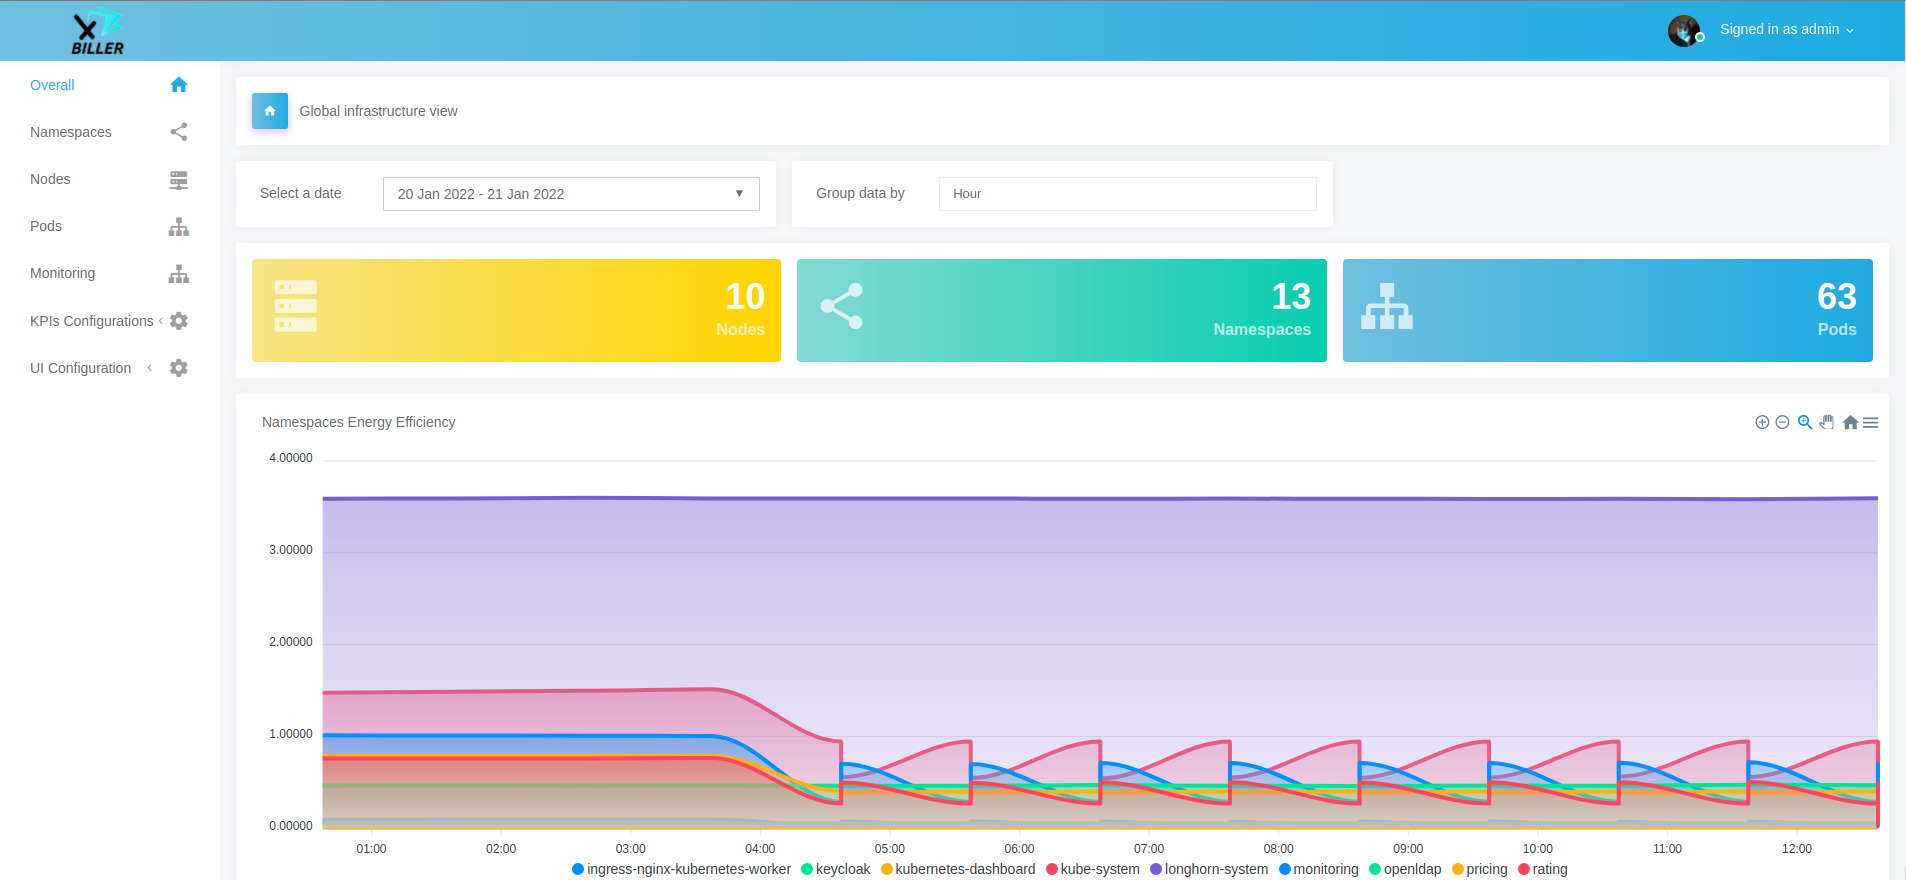
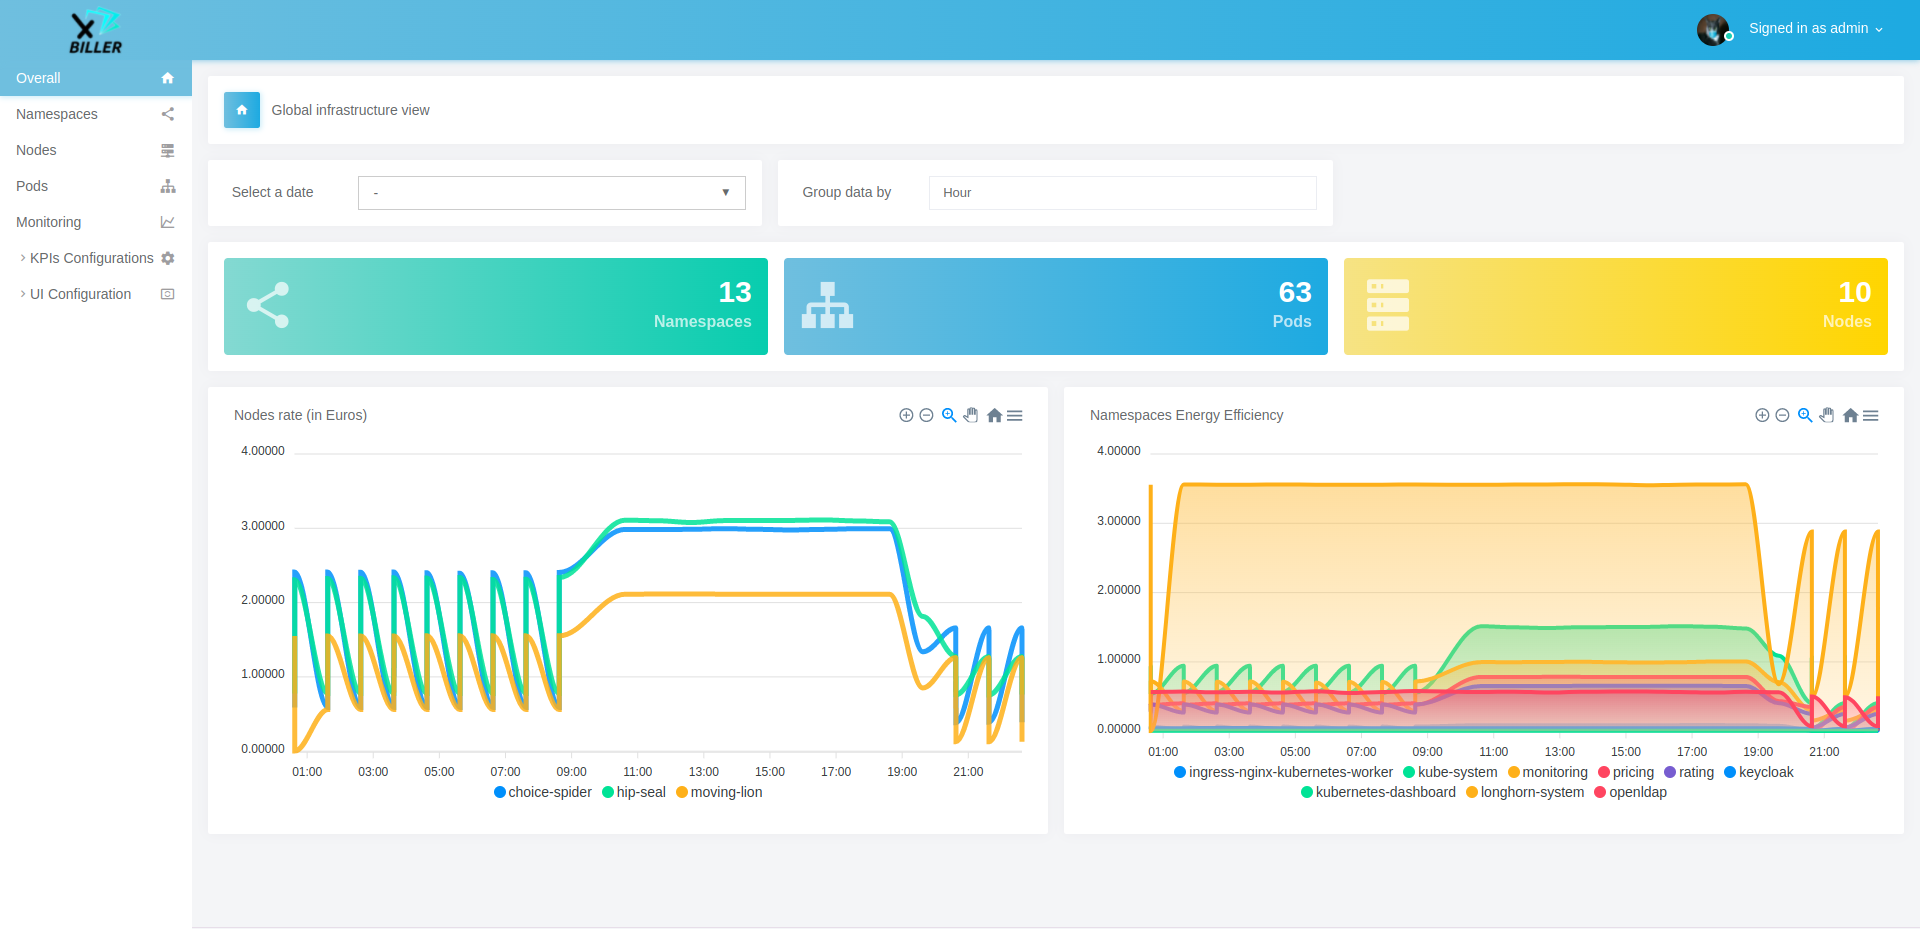
improve menu css

diff --git a/src/components/Layout/menu/menu.html b/src/components/Layout/menu/menu.html
@@ -1,18 +1,21 @@
 <nav class="sidebar sidebar-offcanvas" id="sidebar">
     <ul class="nav">
         <div v-for="item in menus">
-            <li v-if="item.children" class="nav-item pointer">
-                <a class="nav-link " data-bs-toggle="collapse"  aria-expanded="false" aria-controls="ui-basic"
+            <li v-if="item.children" class="nav-item nav-sub-item pointer">
+                <a  data-bs-toggle="collapse"
+                   v-bind:class="isActive[item.id] === true || show[item.id] && show[item.id].indexOf($route.name)!== -1 ? 'nav-link sub' : 'nav-link '"
+                   aria-expanded="false" aria-controls="ui-basic"
                    v-on:click="isActive[item.id] === true ? isActive[item.id] = false : isActive[item.id] = true">
                     <i v-bind:class="isActive[item.id] === true ? 'mdi mdi-chevron-down' : 'mdi mdi-chevron-right'"></i>
-                    <span class="menu-title">{{item.name}}</span>
+                    <span class="menu-title">{{ item.name }}</span>
                     <i :class="'mdi '+item.icon+' menu-icon'"></i>
                 </a>
-                <div class="collapse" v-bind:class="isActive[item.id] === true || show[item.id] && show[item.id].indexOf($route.name)!== -1 ? 'display-block' : 'display-none'">
+                <div v-bind:class="isActive[item.id] === true || show[item.id] && show[item.id].indexOf($route.name)!== -1 ? 'collapse display-block' : 'collapse display-none'">
                     <ul class="nav flex-column sub-menu">
-                        <router-link v-for="subItem in item.children"  class="pointer" :to="subItem.path" custom v-slot="{ navigate }">
+                        <router-link v-for="subItem in item.children" class="pointer" :to="subItem.path" custom
+                                     v-slot="{ navigate }">
                             <li v-bind:class="$route.name==subItem.name ? 'nav-item active' : 'nav-item '">
-                                <a  class="nav-link" @click="navigate" @keypress.enter="navigate" role="link">
+                                <a class="nav-link" @click="navigate" @keypress.enter="navigate" role="link">
                                     <i :class="'mdi '+subItem.icon+' float-right'"></i>
                                     <span class="sub-menu-title">{{ subItem.name }}</span>
                                 </a>
@@ -21,7 +24,7 @@
                     </ul>
                 </div>
             </li>
-            <router-link v-else  class="pointer"  :to="item.path" custom v-slot="{ navigate }">
+            <router-link v-else class="pointer" :to="item.path" custom v-slot="{ navigate }">
                 <li v-bind:class="$route.name==item.name ? 'nav-item active' : 'nav-item '">
                     <a class="nav-link" @click="navigate" @keypress.enter="navigate" role="link">
                         <span class="menu-title">{{ item.name }}</span>

diff --git a/src/views/uiConfiguration/views/views.js b/src/views/uiConfiguration/views/views.js
@@ -172,9 +172,10 @@ export default {
                             "icon": document.getElementById("icon").value,
                             "color": document.getElementById("color").value,
                             "type": document.getElementById("type").value,
-                            "key": document.getElementById("key").value,
                             "query": document.getElementById("query").value,
                             "redirect": document.getElementById("redirect").value,
+                            "value": "",
+                            "key": document.getElementById("key").value,
                         }
                     ],
                     showCancelButton: true,
@@ -188,7 +189,7 @@ export default {
                     // eslint-disable-next-line no-unused-vars
                 }).then((result) => {
                     if (result.isConfirmed === true) {
-                        configurationsController.addCardModels(result.value[0], this.activeView)
+                        configurationsController.addCardModel(result.value[0], this.activeView)
                     }
                 });
             }

diff --git a/public/css/style.css b/public/css/style.css
@@ -20078,7 +20078,7 @@ dl li {
     -ms-flex-align: center;
     align-items: center;
     white-space: nowrap;
-    padding: .6rem 0 .6rem 0;
+    padding: .4rem 0 .4rem 0;
     color: var(--bs-body-color);
     -webkit-transition-duration: 0.45s;
     transition-duration: 0.45s;
@@ -20266,6 +20266,7 @@ dl li {
     margin-bottom: 0;
     margin-top: 0;
     list-style: none;
+    padding: 0 0rem 0 1rem;
 }
 
 .sidebar .nav.sub-menu .nav-item {
@@ -20274,13 +20275,18 @@ dl li {
 
 .sidebar .nav.sub-menu .nav-item .nav-link {
     color: var(--bs-body-color);
-    padding: 0.5rem 2rem 0.5rem 2rem;
+    padding: 0.5rem 2rem 0.5rem 1rem;
     position: relative;
     font-size: 0.75rem;
-    line-height: 1;
+    line-height: 0.5;
     height: auto;
     border-top: 0;
 }
+
+.sidebar .nav .nav-item .nav-link.sub {
+    padding: 0.4rem 0 0.2rem 0;
+}
+
 
 .sidebar .nav.sub-menu .nav-item .nav-link i {
     font-family: "open sans", "Helvetica Neue", Helvetica, Arial, sans-serif;

diff --git a/src/views/instances/createInstance/createInstance.html b/src/views/instances/createInstance/createInstance.html
@@ -57,8 +57,8 @@
                 </div>
             </div>
             <div class="page-header card-footer mb-0">
-                <button class="btn btn-secondary m-r-lg pull-left" type="reset">Annuler</button>
-                <button class="btn btn-primary pull-right" type="submit">Enregistrer</button>
+                <button class="btn btn-secondary m-r-lg pull-left" type="reset">Cancel</button>
+                <button class="btn btn-primary pull-right" type="submit">Save</button>
             </div>
         </div>
         </form>

diff --git a/src/controller/configurationsController.js b/src/controller/configurationsController.js
@@ -67,11 +67,14 @@ export function getForm(structureType) {
     }
 }
 
-export function addCardModels(model, activeView) {
+export function addCardModel(model, activeView) {
     let r = controlModel(controls.card.schema, model);
     if (r.isValid) {
         views[activeView].structure.card.models.push(model);
         window.sessionStorage.setItem('uiConfigurations', JSON.stringify(uiConfigurations));
+    }else{
+        console.log('ici')
+        console.log(r)
     }
 }
 

diff --git a/README.md b/README.md
@@ -64,11 +64,9 @@ yarn build
 The project is launched by default on http://localhost:8080
 ```
 ### Home page
-![home](public/images/documentation/home.png "home")
-
+![home](public/images/documentation/home.png)
 ### Monitoring Page
-![monitoring](public/images/documentation/monitoring.gif "monitoring")
-
+![monitoring](public/images/documentation/monitoring.gif)
 ### 5 - configuration of dashboard
 You can configure your dashboard with the charts and cards you want. There are two types of configuration :
 - On the configuration page
